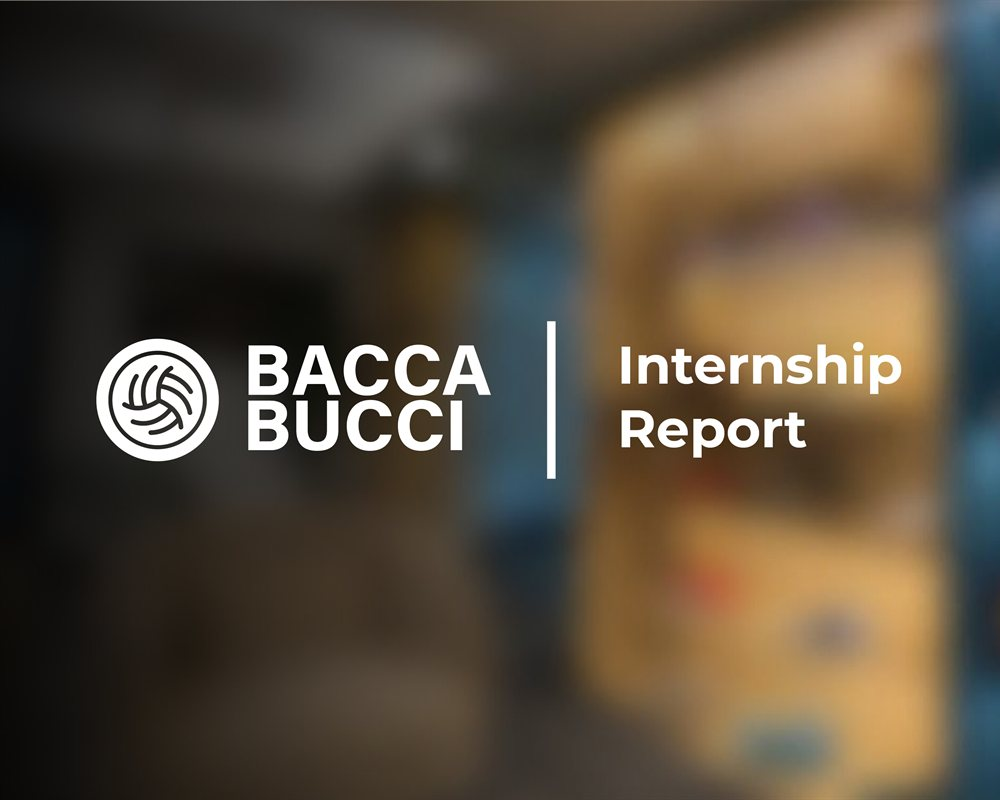
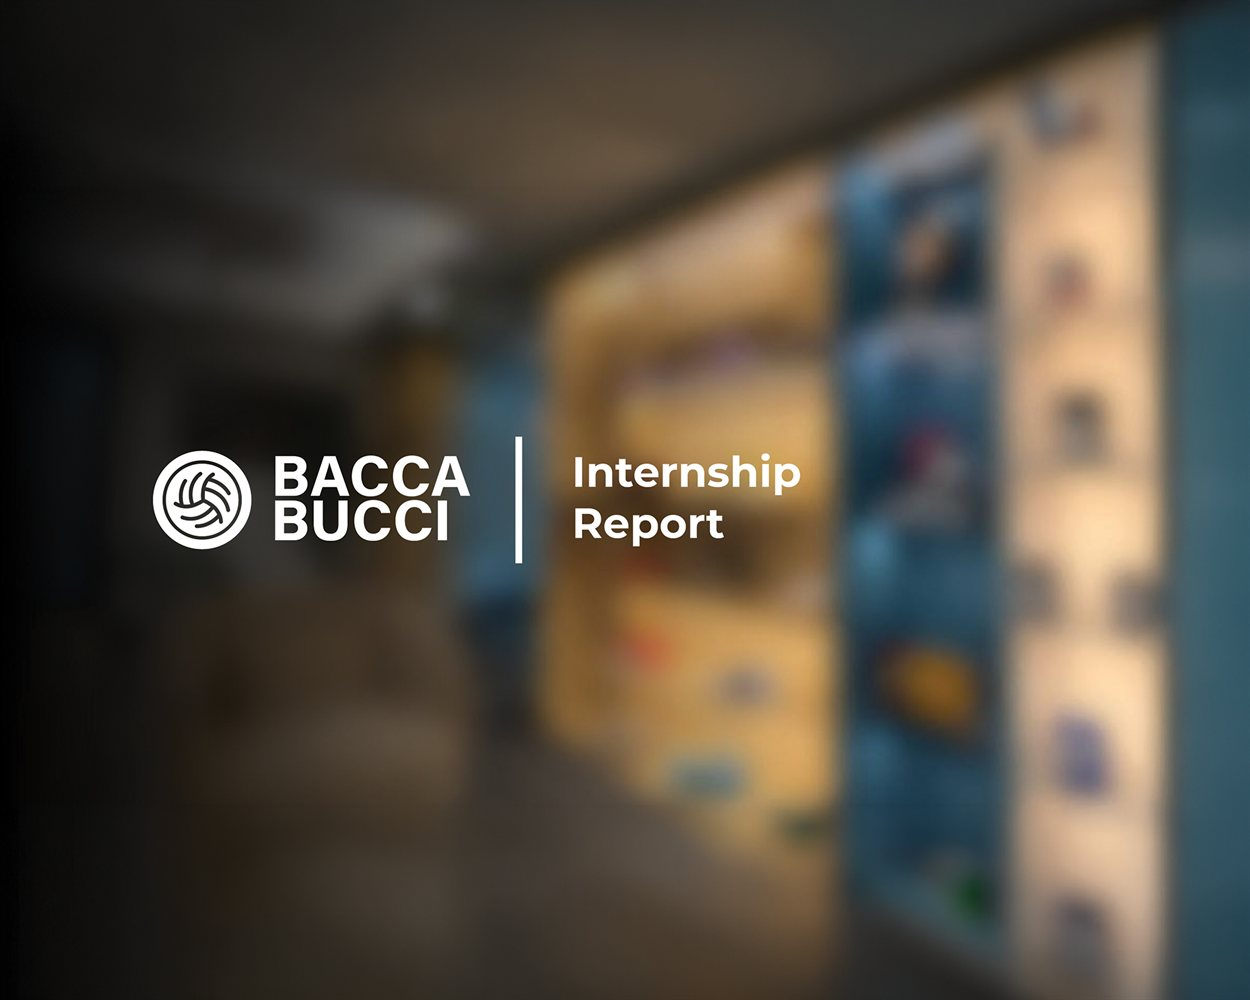
Replace featured Bacca Bucci cover

diff --git a/index.html b/index.html
@@ -683,7 +683,7 @@
 
     <div class="fcards">
       <a class="fcard" href="#" data-book="books/bacca-bucci" data-pages="68">
-        <div class="art-box"><img src="thumbnails/Bacca%20Bucci%20-%20Featured.jpg" alt="Bacca Bucci internship report cover" loading="lazy" style="object-fit: cover"></div>
+        <div class="art-box"><img src="thumbnails/Bacca%20Bucci%20-%20Featured.jpg?v=2" alt="Bacca Bucci internship report cover" loading="lazy" style="object-fit: cover"></div>
         <h3>Bacca Bucci Internship Report <span class="pill">Internship</span></h3>
         <p>My graphic design internship at Bacca Bucci Fashion, documented as a page-turning booklet.</p>
         <span class="arrow" aria-hidden="true">→</span>
